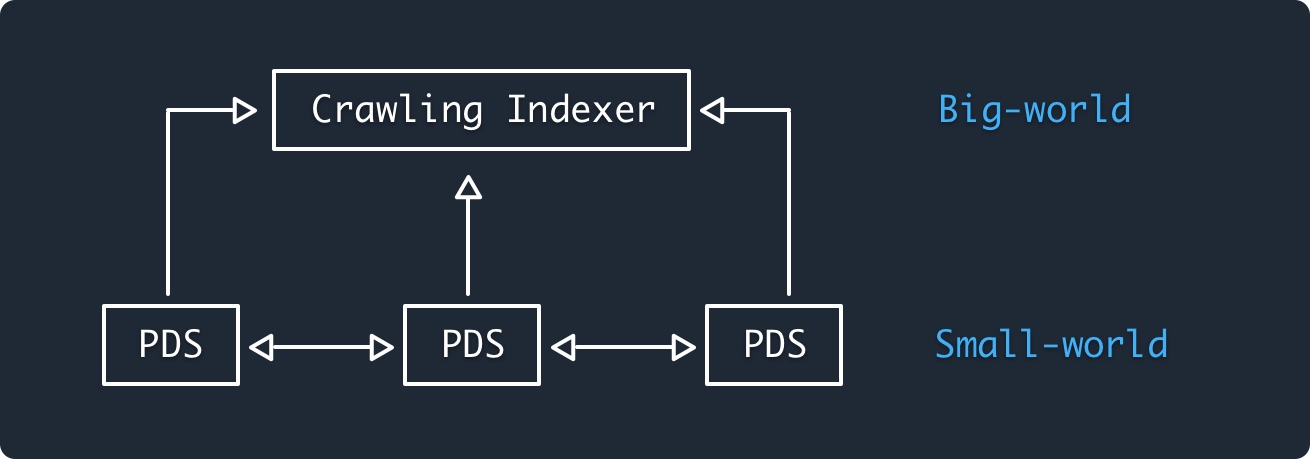
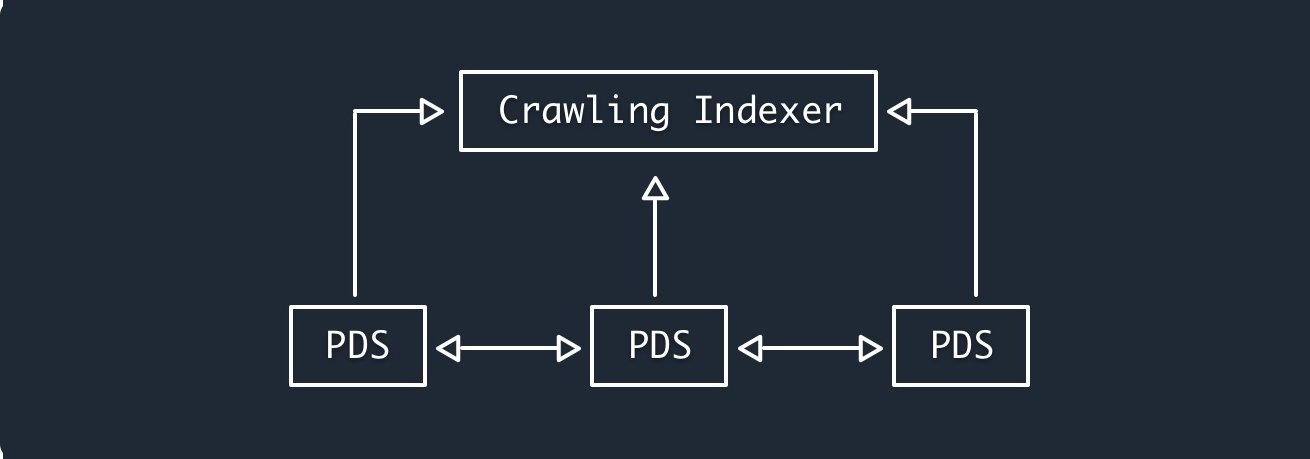
Revise overview: update big world small world, fix typos

diff --git a/content/guides/overview.md b/content/guides/overview.md
@@ -5,11 +5,11 @@ summary: An introduction to the AT Protocol.
 
 # Protocol Overview
 
-The **Authenticated Transfer Protocol**, aka **ATP**, is a protocol for large-scale distributed social applications. This document will introduce you to the ideas behind the AT Protocol.
+The **Authenticated Transfer Protocol**, aka **ATP**, is a federated protocol for large-scale distributed social applications. This document will introduce you to the ideas behind the AT Protocol.
 
 ## Identity
 
-Users are identified by domain names in AT Protocol. These domains map to cryptographic URLs which secure the user's account and its data.
+Users are identified by domain names on the AT Protocol. These domains map to cryptographic URLs which secure the user's account and its data.
 
 ![Identities](/img/identities.jpg)
 
@@ -21,7 +21,7 @@ User data is exchanged in [signed data repositories](/guides/data-repos). These 
 
 ## Federation
 
-ATP syncs the repositories in a federated networking model. Federation was chosen to ensure the network is convenient to use and reliably available. Commands are sent between servers using [HTTPS + XRPC](/specs/xrpc).
+The AT Protocol syncs the repositories in a federated networking model. Federation was chosen to ensure the network is convenient to use and reliably available. Commands are sent between servers using [HTTPS + XRPC](/specs/xrpc).
 
 ![Federation](/img/federation.jpg)
 
@@ -31,20 +31,17 @@ A global schemas network called [Lexicon](/specs/lexicon) is used to unify the n
 
 ![Interop](/img/interop.jpg)
 
-While the Web exchanges documents, the AT Protocol exchanges schematic and semantic information, enabling the software from different orgs to understand each others' data. This gives ATP clients freedom to produce user interfaces independently of the servers, and removes the need to exchange rendering code (HTML/JS/CSS) while browsing content.
+While the Web exchanges documents, the AT Protocol exchanges schematic and semantic information, enabling the software from different orgs to understand each others' data. This gives atproto clients freedom to produce user interfaces independently of the servers, and removes the need to exchange rendering code (HTML/JS/CSS) while browsing content.
 
 ## Achieving scale
 
-ATP distinguishes between "small-world" vs "big-world" networking. *Small-world* networking encompasses inter-personal activity while *big-world* networking aggregates activity outside of the user's personal interactions. 
+Personal data servers are your home in the cloud. They host your data, distribute it, manage your identity, and orchestrate requests to other services to give you your views.
 
-* **Small-world**: delivery of events targeted at specific users such as mentions, replies, and DMs, and sync of datasets according to follow graphs.
-* **Big-world**: large-scale metrics (likes, reposts, followers), content discovery (algorithms), and user search.
+Big Graph Services (BGS) handle all of your events, like retrieving large-scale metrics (likes, reposts, followers), content discovery (algorithms), and user search.
 
-Personal Data Servers (PDS) are responsible for small-world networking while indexing services separately crawl the network to provide big-world networking.
+![PDS and BGS](/img/small-big-world.jpg)
 
-![Small world, Big world](/img/small-big-world.jpg)
-
-The small-world/big-world distinction is intended to achieve scale as well as a high degree of user-choice. 
+This distinction is intended to achieve scale as well as a high degree of user-choice. 
 
 ## Algorithmic choice
 
@@ -54,13 +51,13 @@ As with Web search engines, users are free to select their indexers. Each feed, 
 
 ## Account portability
 
-We assume that a Personal Data Server may fail at any time, either by going offline in its entirety, or by ceasing service for specific users. ATP's goal is to ensure that a user can migrate their account to a new PDS without the server's involvement.
+We assume that a Personal Data Server may fail at any time, either by going offline in its entirety, or by ceasing service for specific users. The goal of the AT Protocol is to ensure that a user can migrate their account to a new PDS without the server's involvement.
 
-User data is stored in [signed data repositories](/guides/data-repos) and verified by [DIDs](/guides/identity). DIDs are essentially registries of user certificates, similar in some ways to the TLS certificate system. They are expected to be secure, reliable, and independent of the users' PDS.
+User data is stored in [signed data repositories](/guides/data-repos) and verified by [DIDs](/guides/identity). Signed data repositories are like Git repos but for database records, and DIDs are essentially registries of user certificates, similar in some ways to the TLS certificate system. They are expected to be secure, reliable, and independent of the user's PDS.
 
 ![DID Documents](/img/did-doc.jpg)
 
-Each DID Document publishes two public keys: a signing key and a recovery key.
+Each DID document publishes two public keys: a signing key and a recovery key.
 
 * **Signing key**: Asserts changes to the DID Document *and* to the user's data repository.
 * **Recovery key**: Asserts changes to the DID Document; may override the signing key within a 72-hour window.
@@ -73,24 +70,24 @@ A backup of the user’s data is persistently synced to their client as a backup
 
 ## Speech, reach, and moderation
 
-ATP's model is that _speech_ and _reach_ should be two separate layers, built to work with each other. The “speech” layer should remain neutral, distributing authority and designed to ensure everyone has a voice. The “reach” layer lives on top, built for flexibility and designed to scale.
+Atproto's model is that _speech_ and _reach_ should be two separate layers, built to work with each other. The “speech” layer should remain neutral, distributing authority and designed to ensure everyone has a voice. The “reach” layer lives on top, built for flexibility and designed to scale.
 
 ![Speech vs Reach](/img/speech-vs-reach.jpg)
 
-The base layer of ATP (Personal Data Repositories and Federated Networking) creates a common space for speech where everyone is free to participate, analogous to the Web where anyone can put up a website. The Indexing services then enable reach by aggregating content from the network, analogous to a search engine.
+The base layer of atproto (personal data repositories and federated networking) creates a common space for speech where everyone is free to participate, analogous to the Web where anyone can put up a website. The indexing services then enable reach by aggregating content from the network, analogous to a search engine.
 
 ## Specifications
 
-Five primary specs comprise the v1 of the @-protocol. These specs are:
+Five primary specs comprise the v1 of the AT Protocol. These specs are:
 
 - [Authenticated Transfer Protocol](/specs/atp)
 - [Cross-system RPC (XRPC)](/specs/xrpc)
 - [Lexicon Schemas](/specs/lexicon)
-- [NameSpaced IDs (NSIDs)](/specs/nsid)
+- [Namespaced IDs (NSIDs)](/specs/nsid)
 - [DID:Placeholder (did:plc)](/specs/did-plc)
 
 These specs can be organized into three layers of dependency:
 
 ![Spec diagram](/img/spec-diagram.jpg)
 
-From here you can continue reading the [guides and specs](/docs).
+From here, you can continue reading the [guides and specs](/docs).
